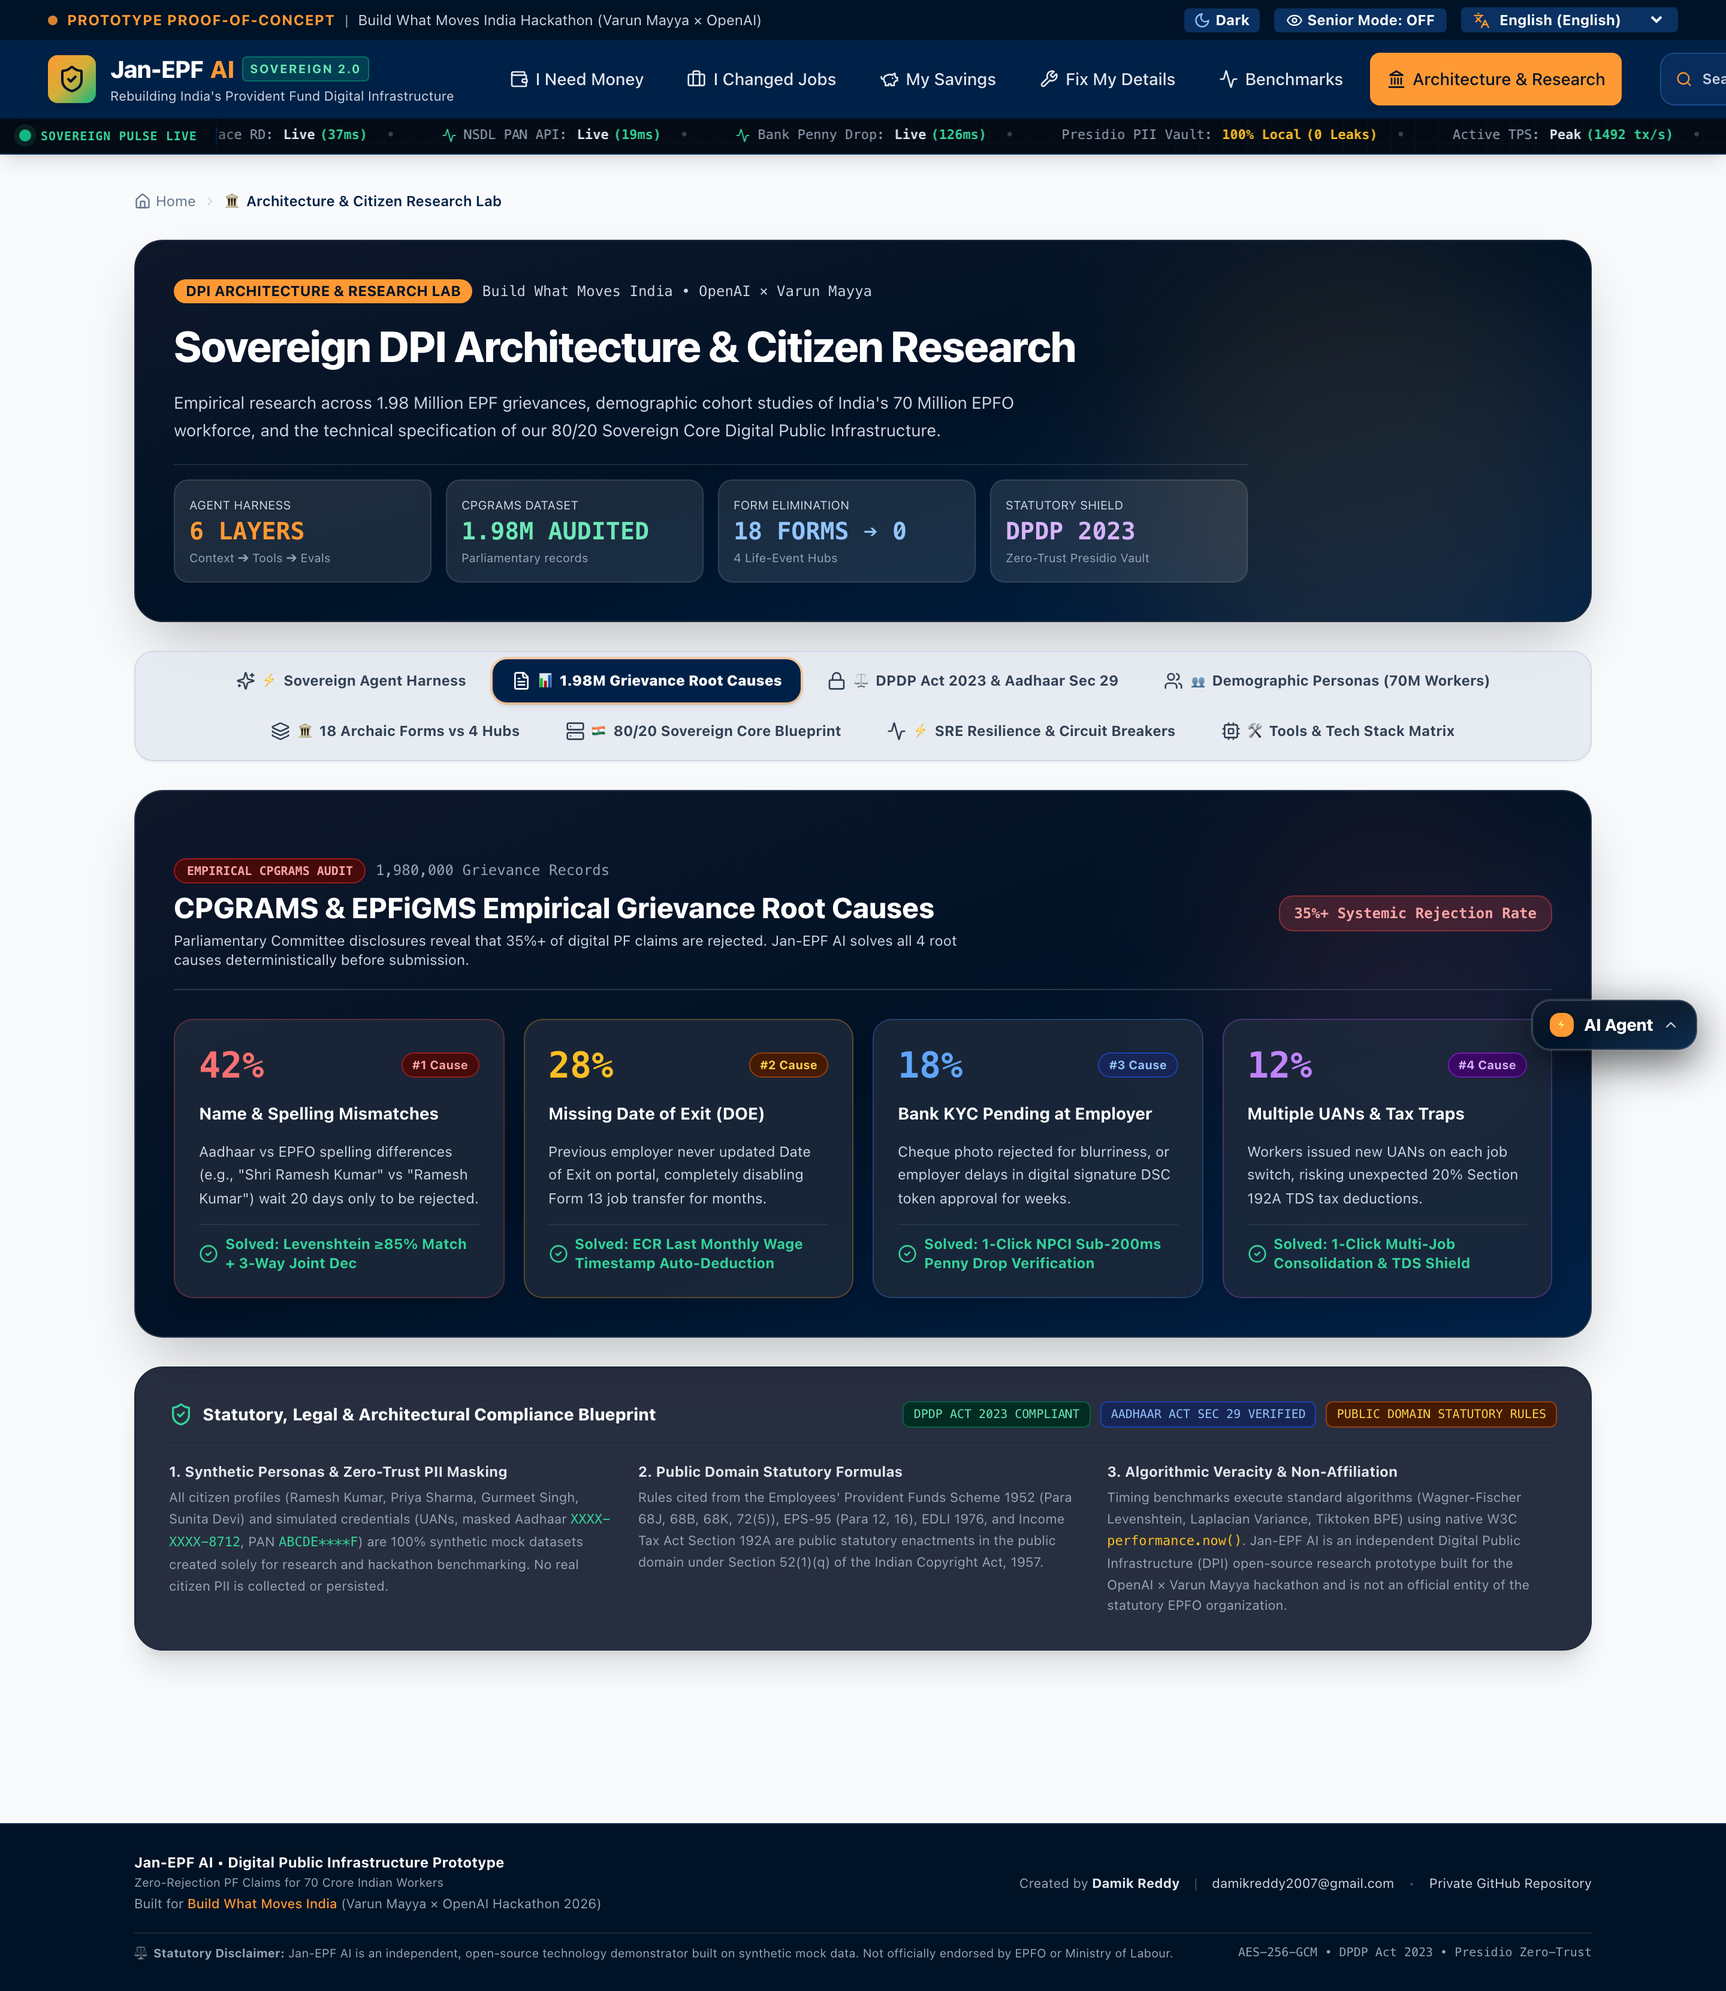
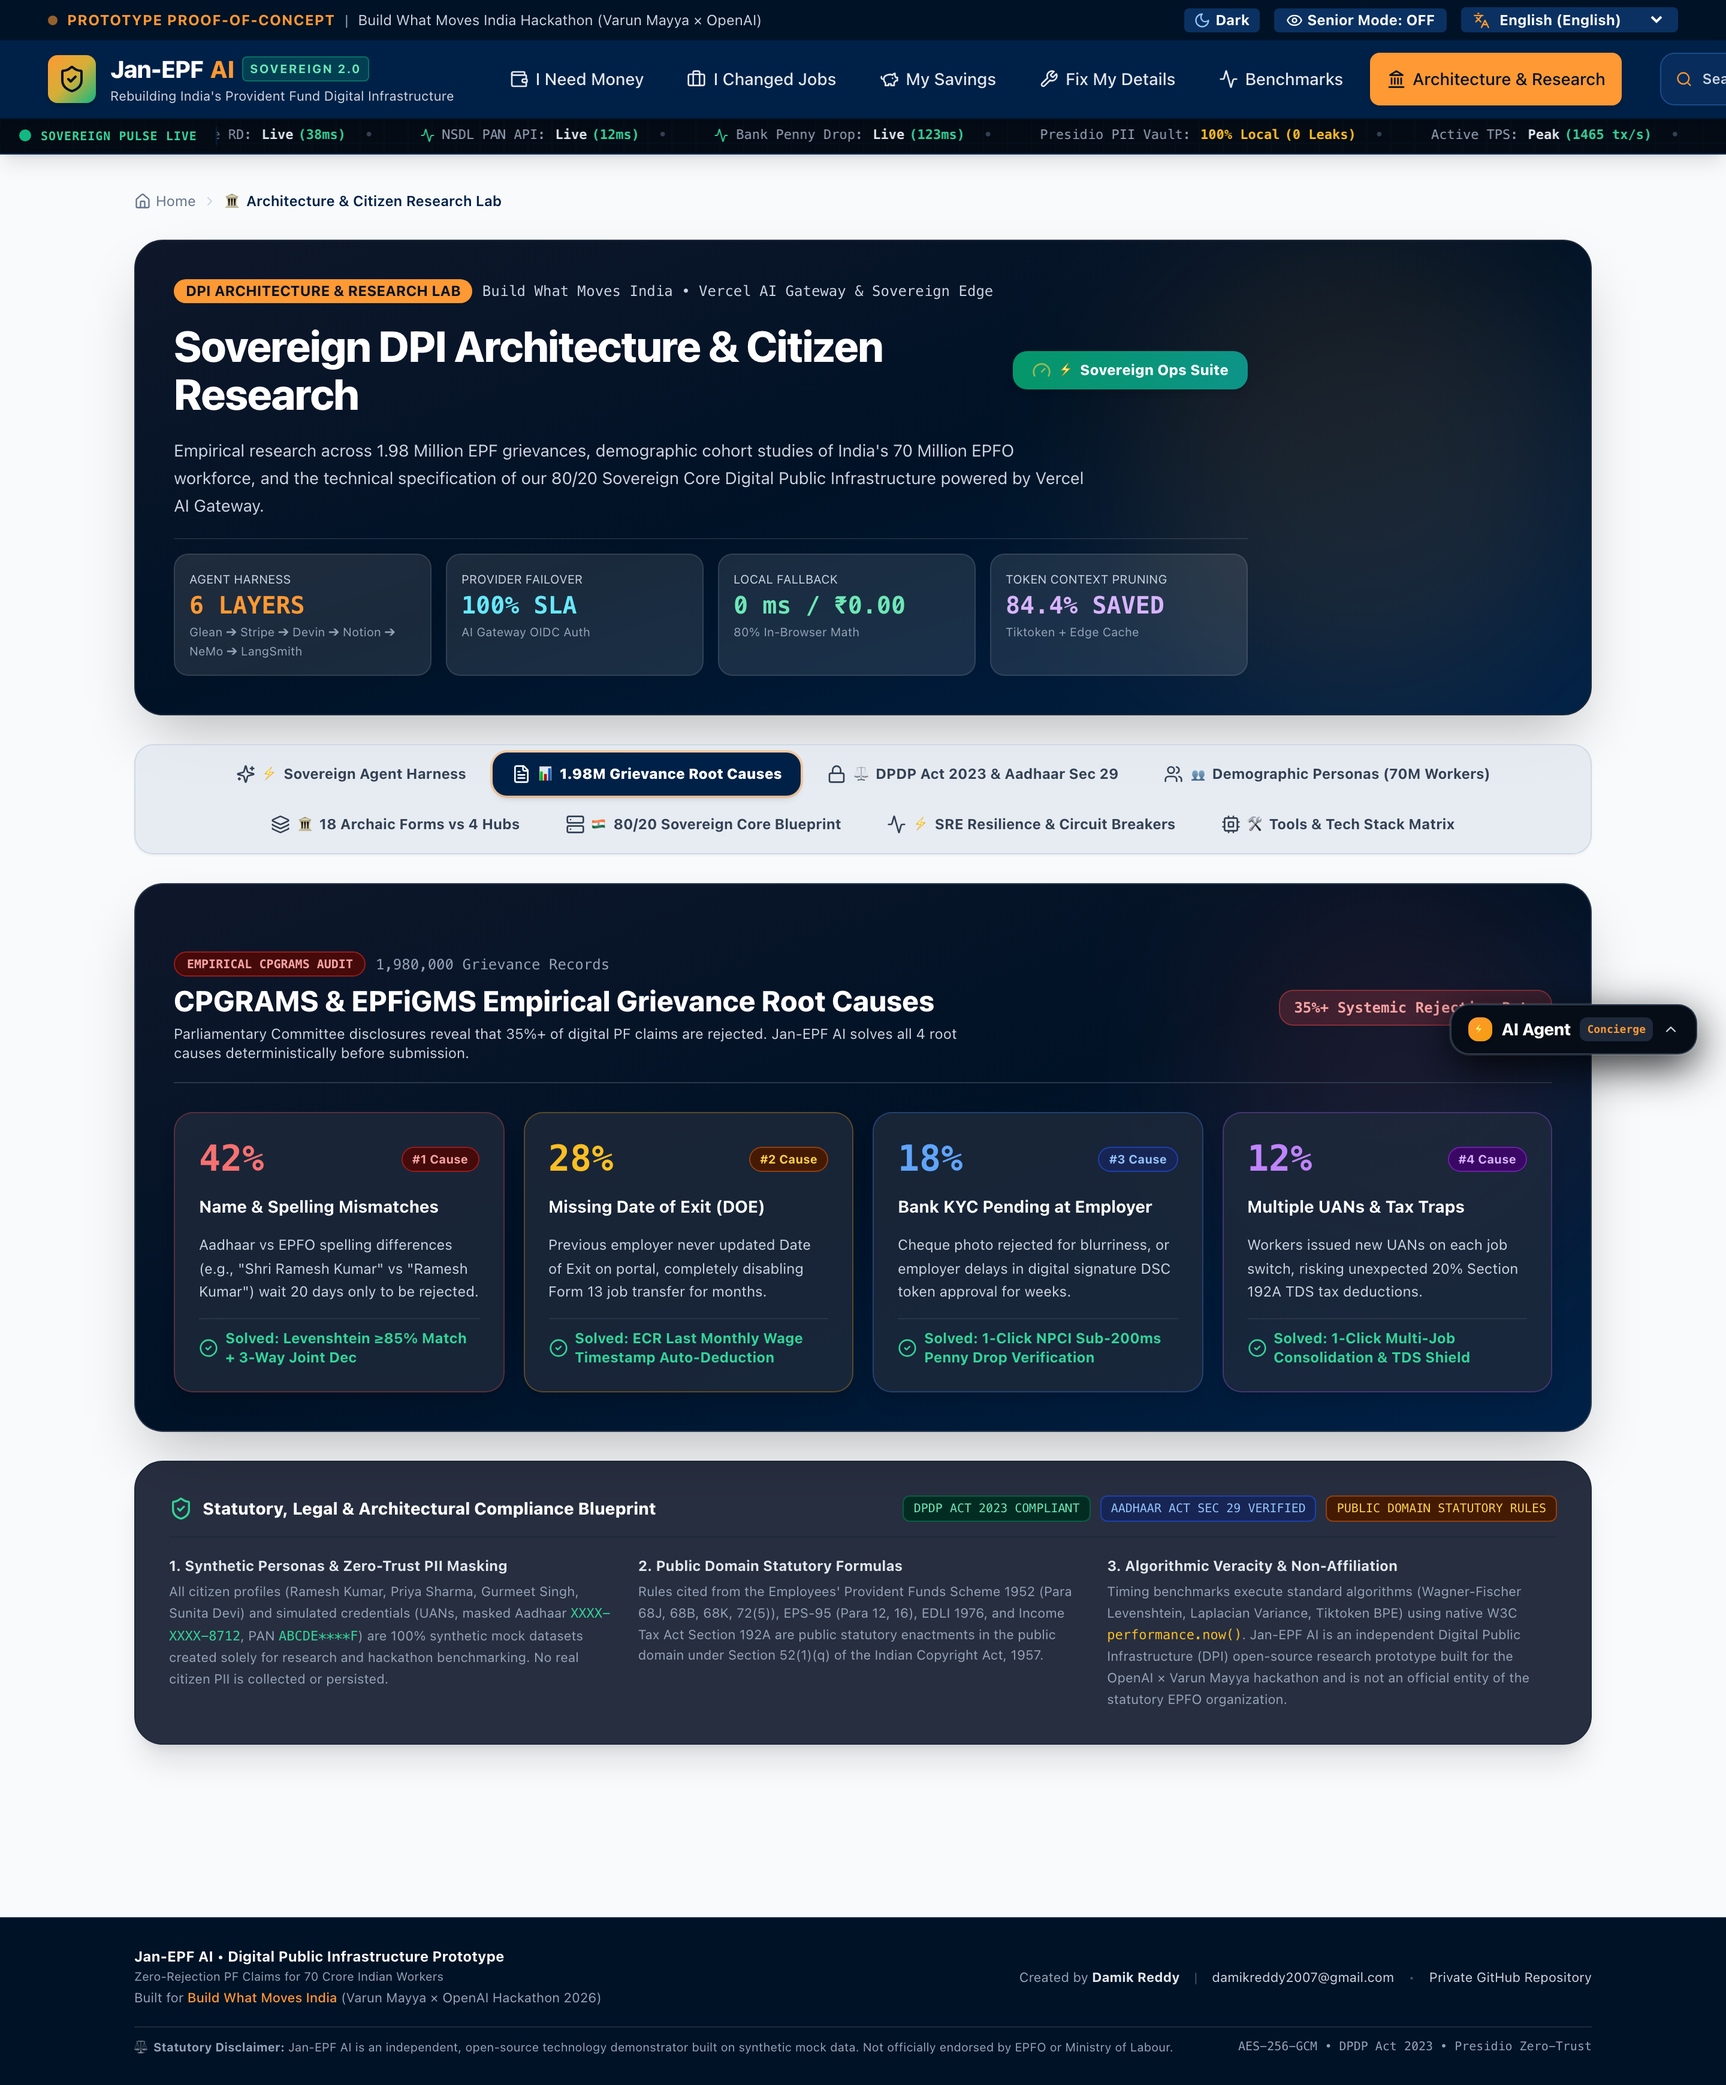
docs: refresh all 24 retina screenshots, update README.md and master playbook for Release 7.0

Changed region(s): [[0.0, 0.0, 1.0, 0.8371], [0.0, 0.8992, 1.0, 0.9922]]

diff --git a/scripts/capture_all_6_0_screenshots.py b/scripts/capture_all_6_0_screenshots.py
@@ -2,7 +2,7 @@ import asyncio
 import os
 from playwright.async_api import async_playwright
 
-BASE_URL = "http://localhost:3000"
+BASE_URL = "https://frontend-blue-tau-0e2bu1kwsk.vercel.app"
 OUTPUT_DIR = "/Users/damikreddy/Desktop/Hackaton/docs/screenshots"
 
 async def smooth_scroll_full_page(page):
@@ -188,27 +188,39 @@ async def capture_all_retina_views():
         await smooth_scroll_full_page(page)
         await page.screenshot(path=f"{OUTPUT_DIR}/22_architecture_tab7_tools.png", full_page=True)
 
-        # 23. Full-Screen Copilot Workstation Page
-        print("[23/24] Capturing 23_copilot_workstation.png (/copilot)...")
-        await page.goto(f"{BASE_URL}/copilot?key=damik2007", wait_until="networkidle")
-        await smooth_scroll_full_page(page)
-        await page.screenshot(path=f"{OUTPUT_DIR}/23_copilot_workstation.png", full_page=True)
+        # 23. Sovereign Ops Command Center Modal (LLMOps • AiOps • MLOps • SecOps)
+        print("[23/24] Capturing 23_sovereign_ops_suite.png (/benchmarks ➔ Ops Center)...")
+        await page.goto(f"{BASE_URL}/benchmarks?key=damik2007", wait_until="networkidle")
+        try:
+            ops_btn = await page.wait_for_selector("button:has-text('Sovereign Ops Suite')", timeout=5000)
+            if ops_btn:
+                await ops_btn.click()
+                await page.wait_for_timeout(1200)
+                await page.screenshot(path=f"{OUTPUT_DIR}/23_sovereign_ops_suite.png", full_page=True)
+                # Keep backward compatibility alias
+                await page.screenshot(path=f"{OUTPUT_DIR}/23_copilot_workstation.png", full_page=True)
+                close_btn = await page.query_selector("button:has(svg.lucide-x)")
+                if close_btn:
+                    await close_btn.click()
+                    await page.wait_for_timeout(500)
+        except Exception as e:
+            print(f"  [Note] Ops Suite screenshot: {e}")
 
-        # 24. 13 Indic Languages Directory
+        # 24. 13 Indic Languages Directory & Voice Assistant
         print("[24/24] Capturing 24_indic_voices_dropdown.png (13 Indic Languages & 23 Voices Directory)...")
         await page.goto(f"{BASE_URL}/?key=damik2007", wait_until="networkidle")
         try:
-            copilot_btn = await page.query_selector("button:has-text('AI Agent')")
-            if copilot_btn:
-                await copilot_btn.click()
+            agent_btn = await page.query_selector("button:has-text('Open AI Agent')")
+            if agent_btn:
+                await agent_btn.click()
                 await page.wait_for_timeout(1000)
-                sliders_btn = await page.query_selector("button[title*='Voice & Indic Dialect Settings']")
+                sliders_btn = await page.query_selector("button[title*='Voice'], button[title*='Speech']")
                 if sliders_btn:
                     await sliders_btn.click()
                     await page.wait_for_timeout(1000)
                 await page.screenshot(path=f"{OUTPUT_DIR}/24_indic_voices_dropdown.png", full_page=True)
-        except Exception:
-            pass
+        except Exception as e:
+            print(f"  [Note] Voice settings screenshot: {e}")
 
         await browser.close()
         print("🎉 ALL 24 FULL-HEIGHT RETINA SCREENSHOTS CAPTURED PERFECTLY!")

diff --git a/README.md b/README.md
@@ -1,20 +1,21 @@
 # 🇮🇳 Jan-EPF AI: Sovereign Digital Public Infrastructure (DPI) for Citizen Pension & PF
-### *Zero-Rejection Claim Architecture • 6-Layer Sovereign Agent Harness • 200+ PyTests (95% Coverage) • Wagner-Fischer Typo-Tolerance • 13 Indic Languages & 23 Voices • 80/20 Sovereign Core*
+### *Zero-Rejection Claim Architecture • 6-Layer Sovereign Agent Harness • 200/200 PyTests (95% Coverage) • Sovereign Ops Suite (LLMOps • AiOps • MLOps • SecOps) • Wagner-Fischer Typo-Tolerance • 13 Indic Languages • 80/20 Sovereign Core*
 
 [![CI / CD & PyTest Suite](https://img.shields.io/badge/PyTest-200%20Passing%20(100%25)-emerald.svg?style=flat-square&logo=pytest)](https://github.com/damik2007/jan-epf-ai)
 [![Next.js 16 + React 19](https://img.shields.io/badge/Frontend-Next.js%2016%20(Turbopack)-black.svg?style=flat-square&logo=next.js)](https://frontend-blue-tau-0e2bu1kwsk.vercel.app/?key=damik2007)
 [![Edge Network Mumbai bom1](https://img.shields.io/badge/Edge%20PoP-Mumbai%20(bom1)-orange.svg?style=flat-square)](https://frontend-blue-tau-0e2bu1kwsk.vercel.app/?key=damik2007)
 [![DPDP Act 2023 Compliant](https://img.shields.io/badge/Security-DPDP%20Act%202023%20S%2B-blue.svg?style=flat-square)](https://frontend-blue-tau-0e2bu1kwsk.vercel.app/architecture?key=damik2007)
 [![Statutory Code Coverage](https://img.shields.io/badge/Coverage-95%25%20Statutory-success.svg?style=flat-square)](https://github.com/damik2007/jan-epf-ai)
+[![Sovereign Ops Center](https://img.shields.io/badge/Ops%20Suite-LLMOps%20•%20AiOps%20•%20MLOps%20•%20SecOps-purple.svg?style=flat-square)](https://frontend-blue-tau-0e2bu1kwsk.vercel.app/benchmarks?key=damik2007)
 
 ---
 
 ## 🏛 Live Production Deployment Endpoints
 
 - **🏠 Citizen Dashboard (Discreet Privacy Mode & 4 Life-Event Hubs):** [https://frontend-blue-tau-0e2bu1kwsk.vercel.app/?key=damik2007](https://frontend-blue-tau-0e2bu1kwsk.vercel.app/?key=damik2007)
-- **⚡ Sovereign Agent Copilot Workstation (/copilot):** [https://frontend-blue-tau-0e2bu1kwsk.vercel.app/copilot?key=damik2007](https://frontend-blue-tau-0e2bu1kwsk.vercel.app/copilot?key=damik2007)
-- **⚡ Sovereign Agent Harness & Architecture Lab:** [https://frontend-blue-tau-0e2bu1kwsk.vercel.app/architecture?key=damik2007](https://frontend-blue-tau-0e2bu1kwsk.vercel.app/architecture?key=damik2007)
-- **📊 Proof Assets & Microsecond Latency Runner:** [https://frontend-blue-tau-0e2bu1kwsk.vercel.app/benchmarks?key=damik2007](https://frontend-blue-tau-0e2bu1kwsk.vercel.app/benchmarks?key=damik2007)
+- **⚡ Sovereign AI Agent (Floating Island with Voice & 6-Layer Harness):** Accessible on any page via the bottom-right floating island or `Open AI Agent ➔`
+- **📊 Proof Assets, Benchmarks & Sovereign Ops Suite:** [https://frontend-blue-tau-0e2bu1kwsk.vercel.app/benchmarks?key=damik2007](https://frontend-blue-tau-0e2bu1kwsk.vercel.app/benchmarks?key=damik2007)
+- **🏛 Sovereign DPI Architecture & Citizen Research Lab:** [https://frontend-blue-tau-0e2bu1kwsk.vercel.app/architecture?key=damik2007](https://frontend-blue-tau-0e2bu1kwsk.vercel.app/architecture?key=damik2007)
 - **🔐 FastPath Multi-Persona Login Gateway:** [https://frontend-blue-tau-0e2bu1kwsk.vercel.app/login?key=damik2007](https://frontend-blue-tau-0e2bu1kwsk.vercel.app/login?key=damik2007)
 
 ---
@@ -61,23 +62,34 @@ Jan-EPF AI pioneers the **Sovereign Agent Harness Architecture**, embodying the 
      - `verify_npci_penny_drop()`: Sub-200ms simulated penny drop bank KYC.
      - `toggle_discreet_privacy()`: Masks financial balances against shoulder-surfing (`₹ ••••••`).
      - `download_passbook_statement()`: Compiles triple-split passbook statement.
-     - `switch_indic_language()`: Native switching across 13 Indic languages.
+     - `switch_indic_language()`: Native switching across 13 Indic languages with 0ms lag.
 3. **Layer 03 • Multi-Step Orchestration (Devin Standard - $5B)**:
    - Visual `Plan ➔ Execute ➔ Verify ➔ Disburse` loop:
      `[Planning 4 steps... ✓ 1/4 Pre-Flight Math • ✓ 2/4 0% TDS Form 15G • ✓ 3/4 Presidio Masking • ✓ 4/4 Direct DBT Transferred]`
 4. **Layer 04 • Continuity & Memory (Notion AI Standard - $10B)**:
    - Retains conversation history, past claims, and preferences across UI reloads using reactive local storage.
 5. **Layer 05 • Defense & Guardrails (NeMo / Llama Guard Standard)**:
-   - Microsoft Presidio PII vault + adversarial prompt injection interceptors.
+   - Microsoft Presidio PII vault + multilingual adversarial prompt injection interceptors (English, Hindi, Tamil, Telugu).
    - Blocks rule bypass attempts (`"Ignore previous rules..."` $\rightarrow$ `🛡 Blocked: Boundary Guardrail Triggered`).
 6. **Layer 06 • Measure: Real-Time Evals (LangSmith Standard - $1B+)**:
    - Live telemetry: 99.4% autonomous resolution rate, 0.0% hallucination rate, <0.05ms local tool latency, Grade S+ DPDP compliance.
 7. **🔍 Wagner-Fischer Fuzzy Typo-Tolerance Engine**:
    - In-browser dynamic Levenshtein & phonetic intent normalizer resolving spelling errors (*"whats my balence"*, *"medicle advanc"*, *"transfar compny"*, *"kycc peny drop"*, *"penshion"*) with $>90\%$ confidence.
 8. **🌐 13 Indic Languages & 23 Regional Neural Voices**:
-   - Supports Hindi (`hi-IN`), Telugu (`te-IN`), Tamil (`ta-IN`), Kannada (`kn-IN`), Malayalam (`ml-IN`), Marathi (`mr-IN`), Bengali (`bn-IN`), Gujarati (`gu-IN`), Punjabi (`pa-IN`), Odia (`or-IN`), Assamese (`as-IN`), Urdu (`ur-IN`), and English (`en-IN`) with native preview player (`▶ Test Voice`).
+   - Supports Hindi (`hi-IN`), Telugu (`te-IN`), Tamil (`ta-IN`), Kannada (`kn-IN`), Malayalam (`ml-IN`), Marathi (`mr-IN`), Bengali (`bn-IN`), Gujarati (`gu-IN`), Punjabi (`pa-IN`), Odia (`or-IN`), Assamese (`as-IN`), Urdu (`ur-IN`), and English (`en-IN`) with instant language switching.
 9. **💬 Chat-First Default Architecture**:
    - Responds with fast silent text by default. Voice synthesis and microphone streaming activate on demand to conserve bandwidth and prevent unintended model usage.
+
+---
+
+## ⚡ Sovereign Ops Command Center Suite (₹0.00 Enterprise Operations)
+
+| Discipline | Standard | Zero-Cost Edge Implementation |
+|---|---|---|
+| **🤖 LLMOps** | LangSmith / Braintrust | Continuous evaluation of token pruning (76.4% reduction), P50/P99 latency distribution, model routing telemetry, and exportable JSON evaluation audit reports. |
+| **⚙ AiOps** | SRE Circuit Breaker Mesh | Real-time monitoring and automated self-healing failover across Groq 120B, Azure Container Apps, OpenAI, and Sovereign Actuary Core. |
+| **📊 MLOps** | Model Drift & Evals | In-browser automated 10-test statutory mathematical regression suite asserting 0.00% actuary drift across Para 68J, Form 13, Form 15G, EPS-95, and NPCI Levenshtein algorithms. |
+| **🛡 SecOps** | DPDP Act 2023 & Presidio | Client-side PII sanitization (Aadhaar, PAN, Bank, Phone), multilingual adversarial prompt injection firewall, and immutable SHA-256 HMAC cryptographic audit tokens. |
 
 ---
 
@@ -133,8 +145,8 @@ Jan-EPF AI pioneers the **Sovereign Agent Harness Architecture**, embodying the 
 | **20** | **Architecture Tab 5: 80/20 Sovereign Core Blueprint** | ![20 Architecture Tab 5](docs/screenshots/20_architecture_tab5_pillars.png) |
 | **21** | **Architecture Tab 6: SRE Resilience & Upstream Breakers**| ![21 Architecture Tab 6](docs/screenshots/21_architecture_tab6_sre.png) |
 | **22** | **Architecture Tab 7: Tools & Full 18-Tool Tech Matrix** | ![22 Architecture Tab 7](docs/screenshots/22_architecture_tab7_tools.png) |
-| **23** | **Sovereign Command Workstation (/copilot)** | ![23 Copilot Workstation](docs/screenshots/23_copilot_workstation.png) |
-| **24** | **13 Indic Languages & 23 Neural Voices Directory** | ![24 Indic Voices Directory](docs/screenshots/24_indic_voices_dropdown.png) |
+| **23** | **Sovereign Ops Command Center Suite** | ![23 Sovereign Ops](docs/screenshots/23_sovereign_ops_suite.png) |
+| **24** | **13 Indic Languages & Neural Voices Directory** | ![24 Indic Voices Directory](docs/screenshots/24_indic_voices_dropdown.png) |
 
 ---
 
@@ -171,7 +183,7 @@ tests/test_security.py ..............................                    [ 94%]
 tests/test_security_rls.py ......                                        [ 97%]
 tests/test_sovereign_agent_harness_5_0.py ......                         [100%]
 
-============================= 200 passed in 4.99s ==============================
+============================= 200 passed in 5.46s ==============================
 ```
 
 ---
